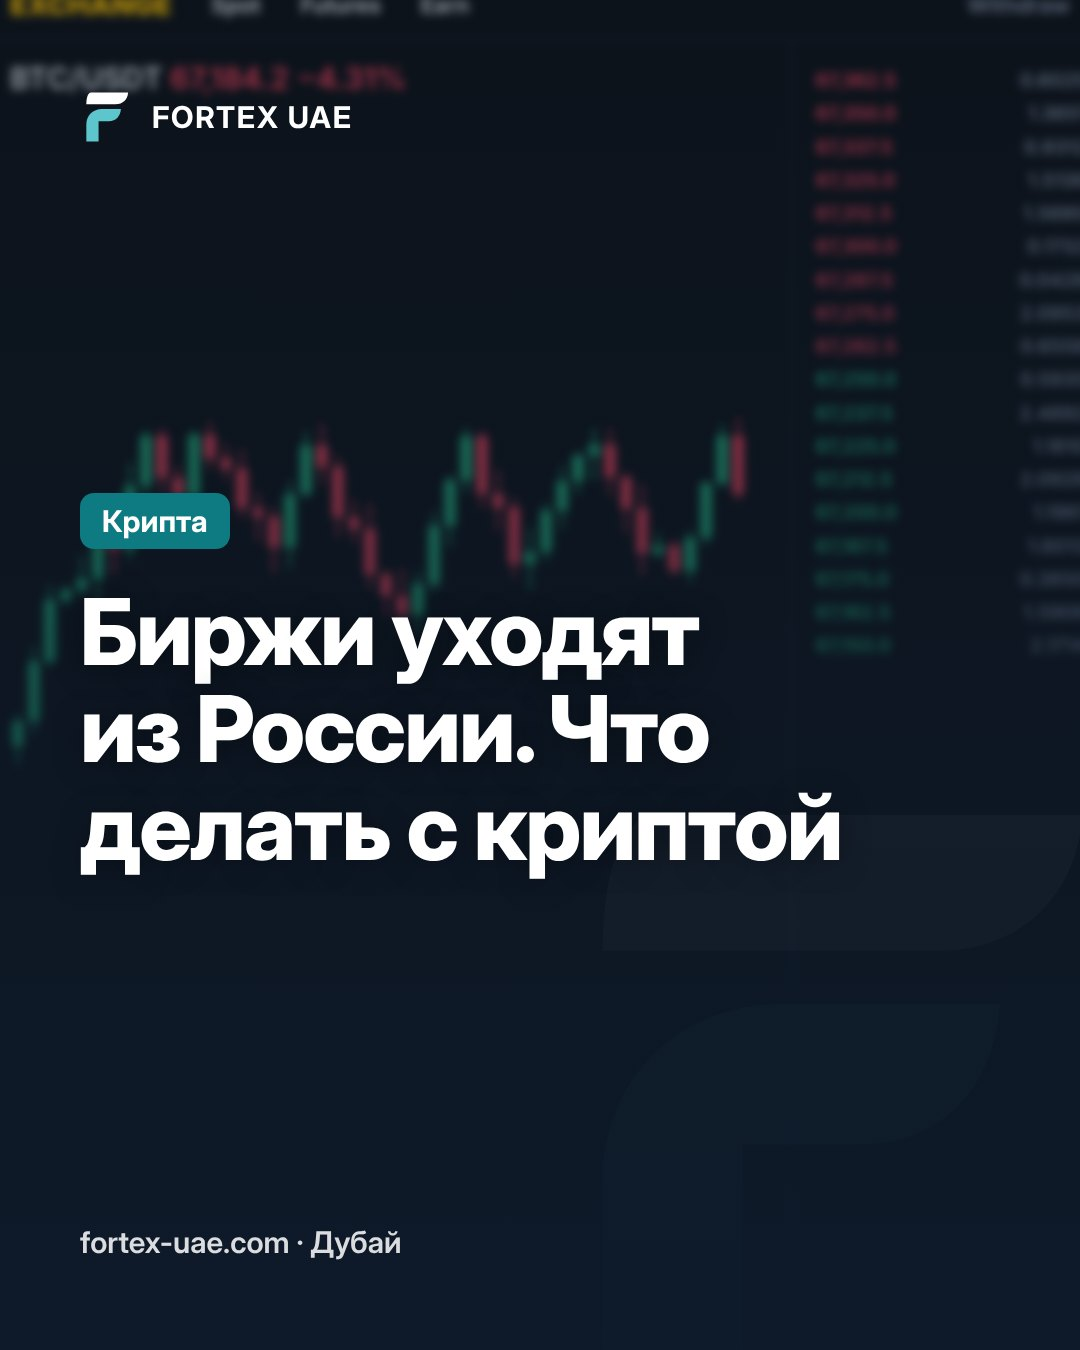
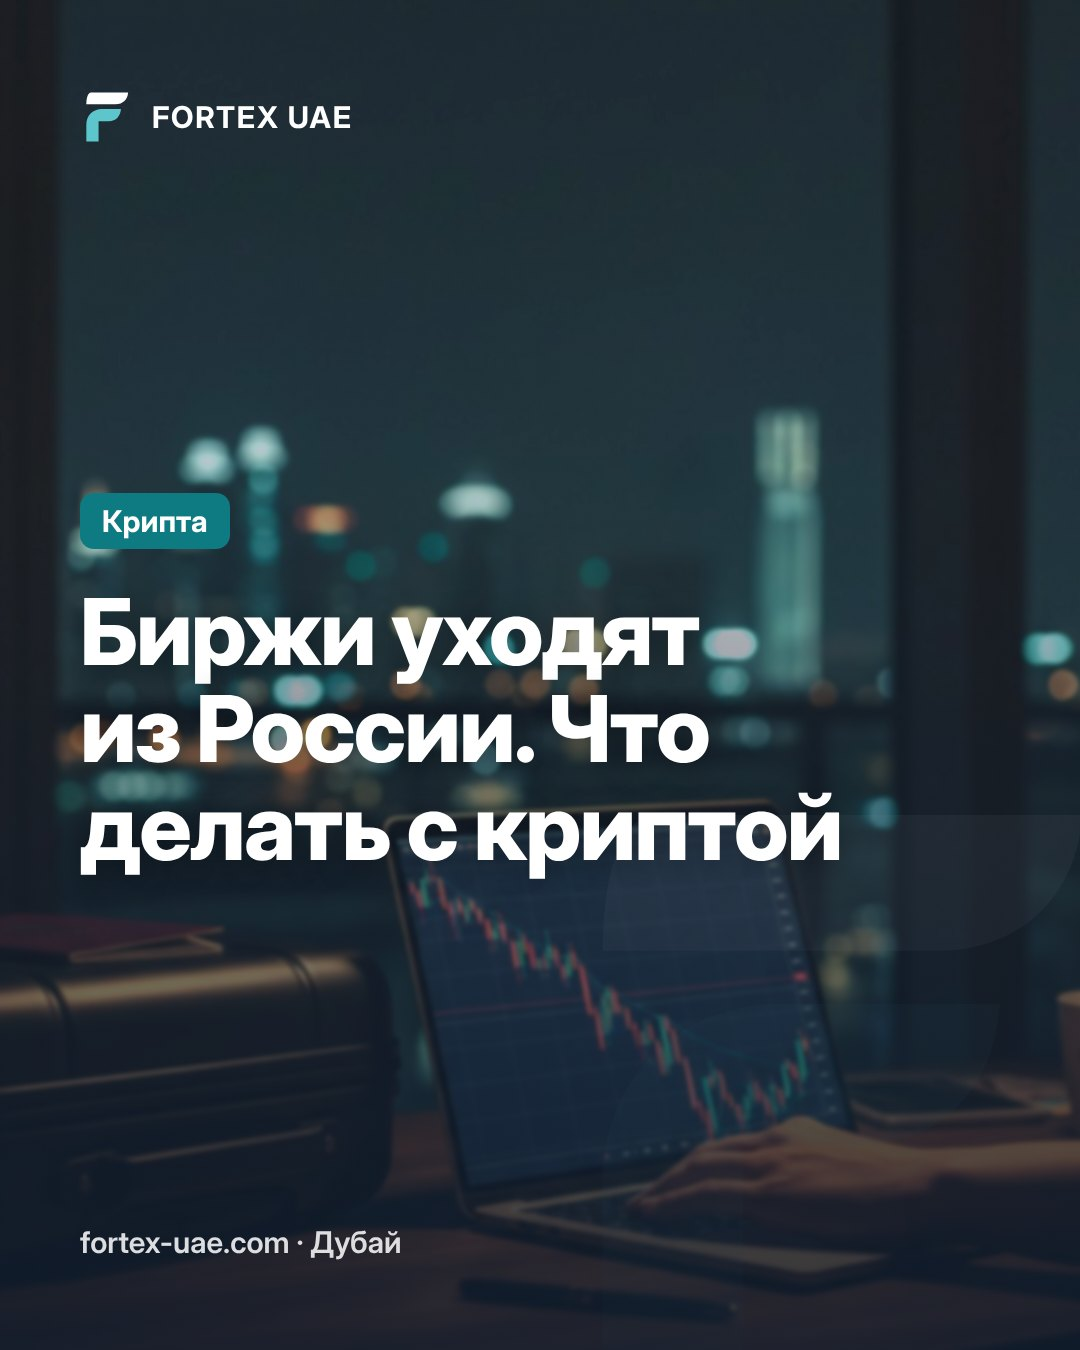
MEXC cover on AI background; lighter treatment for real photos
Claude-Session: https://claude.ai/code/session_01TeShkYn7nqRhFnRDDzuBXX

diff --git a/tools/cover.py b/tools/cover.py
@@ -70,7 +70,8 @@ def page(w, h, title, topic, style, bg_url, scene, tg):
     if style == "photo":
         inner = scene_html(scene, w, h) if (scene and not bg_url) else f'<div style="position:absolute;inset:0;background:url({bg_url}) center 35%/cover"></div>'
         bg_layer = f'<div class="bgwrap">{inner}</div>'
-    grad = "180deg,rgba(14,27,44,.35) 0%,rgba(14,27,44,.55) 40%,rgba(14,27,44,.92) 100%" if big else "90deg,rgba(14,27,44,.92) 0%,rgba(14,27,44,.62) 55%,rgba(14,27,44,.25) 100%"
+    real = bool(bg_url) and not scene  # настоящая картинка (нейросеть): меньше размытия и затемнения
+    grad = ("180deg,rgba(14,27,44,.15) 0%,rgba(14,27,44,.25) 35%,rgba(14,27,44,.85) 100%" if real else "180deg,rgba(14,27,44,.35) 0%,rgba(14,27,44,.55) 40%,rgba(14,27,44,.92) 100%") if big else "90deg,rgba(14,27,44,.92) 0%,rgba(14,27,44,.62) 55%,rgba(14,27,44,.25) 100%"
     return f"""<!doctype html><html><head><meta charset="utf-8"><style>
 *{{box-sizing:border-box;margin:0}}
 body{{width:{w}px;height:{h}px;overflow:hidden;font-family:"Inter Display","Inter",sans-serif}}
@@ -78,7 +79,7 @@ body{{width:{w}px;height:{h}px;overflow:hidden;font-family:"Inter Display","Inte
 .light{{background:linear-gradient(135deg,#EAF2F7 0%,#F6F4EE 100%);color:#0E1B2C;--m1:#0E1B2C;--m2:#0E7A82}}
 .dark{{background:radial-gradient({w*.8:.0f}px {h*.8:.0f}px at 85% 30%,#123A48 0%,#0E1B2C 60%);color:#fff;--m1:#E8EEF4;--m2:#4FC3CA}}
 .photo{{color:#fff;--m1:#fff;--m2:#5CC6CC;background:#0E1B2C}}
-.bgwrap{{position:absolute;inset:-30px;filter:blur({5 if big else 4}px) brightness(1) saturate(1.1);z-index:0}}
+.bgwrap{{position:absolute;inset:-30px;filter:blur({(2 if real else 5) if big else (2 if real else 4)}px) brightness({1.25 if real else 1}) saturate(1.1);z-index:0}}
 .photo::after{{content:"";position:absolute;inset:0;background:linear-gradient({grad});z-index:1}}
 .c>.top,.c>div:not(.bgwrap):not(.mark),.c>.foot{{position:relative;z-index:2}}
 .c>.bgwrap{{position:absolute}} .c>.mark{{position:absolute}}
